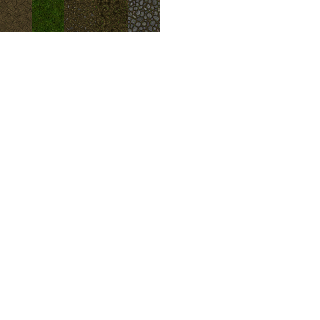
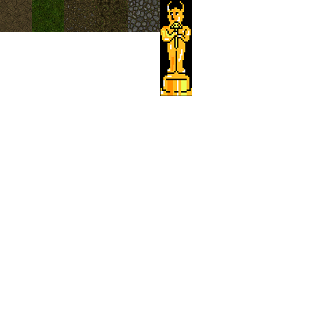
Tutorial 16: overlay tiles

Changed region(s): [[0.5, 0.0, 0.625, 0.3125]]

diff --git a/monogame-rpg/Layer.cs b/monogame-rpg/Layer.cs
@@ -26,16 +26,17 @@ namespace monogame_rpg
         [XmlElement("TileMap")]
         public TileMap tileMap;
         public Image Image;
-        public string SolidTiles;
+        public string SolidTiles, OverlayTiles;
 
-        List<Tile> tiles;
+        List<Tile> underlayTiles, overlayTiles;
         string state;
         
         public Layer()
         {
             Image = new Image();
-            tiles = new List<Tile>();
-            SolidTiles = String.Empty;
+            underlayTiles = new List<Tile>();
+            overlayTiles = new List<Tile>();
+            SolidTiles = OverlayTiles = String.Empty;
         }
 
         public  void LoadContent(Vector2 tileDimensions)
@@ -61,7 +62,7 @@ namespace monogame_rpg
                         if (!s.Contains("X"))
                         {
                             state = "Passive";
-                            tiles.Add(new Tile());
+                            Tile tile = new Tile();
 
                             string str = s.Replace("[", "");
                             int val1 = int.Parse(str.Substring(0, str.IndexOf(':')));
@@ -70,8 +71,13 @@ namespace monogame_rpg
                             if (SolidTiles.Contains("[" + val1.ToString() + ":" + val2.ToString() + "]"))
                                 state = "Solid";
 
-                            tiles[tiles.Count - 1].LoadContent(position, new Rectangle(val1 * (int)tileDimensions.X, val2 * (int)tileDimensions.Y,
+                            tile.LoadContent(position, new Rectangle(val1 * (int)tileDimensions.X, val2 * (int)tileDimensions.Y,
                                 (int)tileDimensions.X, (int)tileDimensions.Y), state);
+
+                            if (OverlayTiles.Contains("[" + val1.ToString() + ":" + val2.ToString() + "]"))
+                                overlayTiles.Add(tile);
+                            else
+                                underlayTiles.Add(tile);
                         }
                     }
                 }
@@ -85,12 +91,22 @@ namespace monogame_rpg
 
         public void Update(GameTime gameTime, ref Player player)
         {
-            foreach (Tile tile in tiles)
+            foreach (Tile tile in underlayTiles)
+                tile.Update(gameTime, ref player);
+
+            foreach (Tile tile in overlayTiles)
                 tile.Update(gameTime, ref player);
         }
 
-        public void Draw(SpriteBatch spriteBatch)
+        public void Draw(SpriteBatch spriteBatch, string drawType)
         {
+            List<Tile> tiles;
+
+            if (drawType == "Underlay")
+                tiles = underlayTiles;
+            else
+                tiles = overlayTiles;
+
             foreach(Tile tile in tiles)
             {
                 Image.Position = tile.Position;

diff --git a/monogame-rpg/Map.cs b/monogame-rpg/Map.cs
@@ -39,10 +39,10 @@ namespace monogame_rpg
                 l.Update(gameTime, ref player);
         }
 
-        public void Draw(SpriteBatch spriteBatch)
+        public void Draw(SpriteBatch spriteBatch, string drawType)
         {
             foreach (Layer l in Layers)
-                l.Draw(spriteBatch);
+                l.Draw(spriteBatch, drawType);
         }
     }
 }

diff --git a/monogame-rpg/GameplayScreen.cs b/monogame-rpg/GameplayScreen.cs
@@ -43,8 +43,9 @@ namespace monogame_rpg
         public override void Draw(SpriteBatch spriteBatch)
         {
             base.Draw(spriteBatch);
-            map.Draw(spriteBatch);
+            map.Draw(spriteBatch, "Underlay");
             player.Draw(spriteBatch);
+            map.Draw(spriteBatch, "Overlay");
         }
     }
 }
